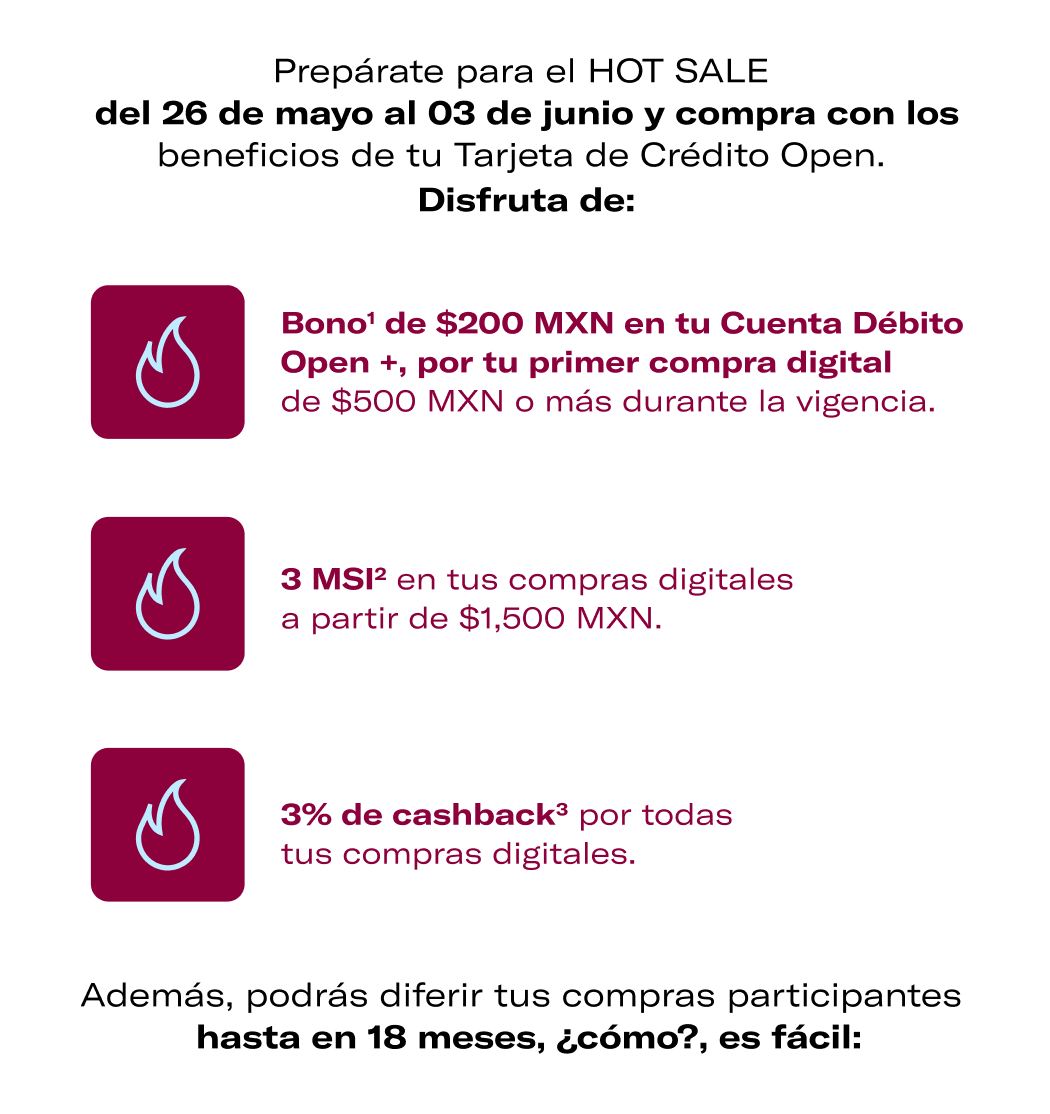
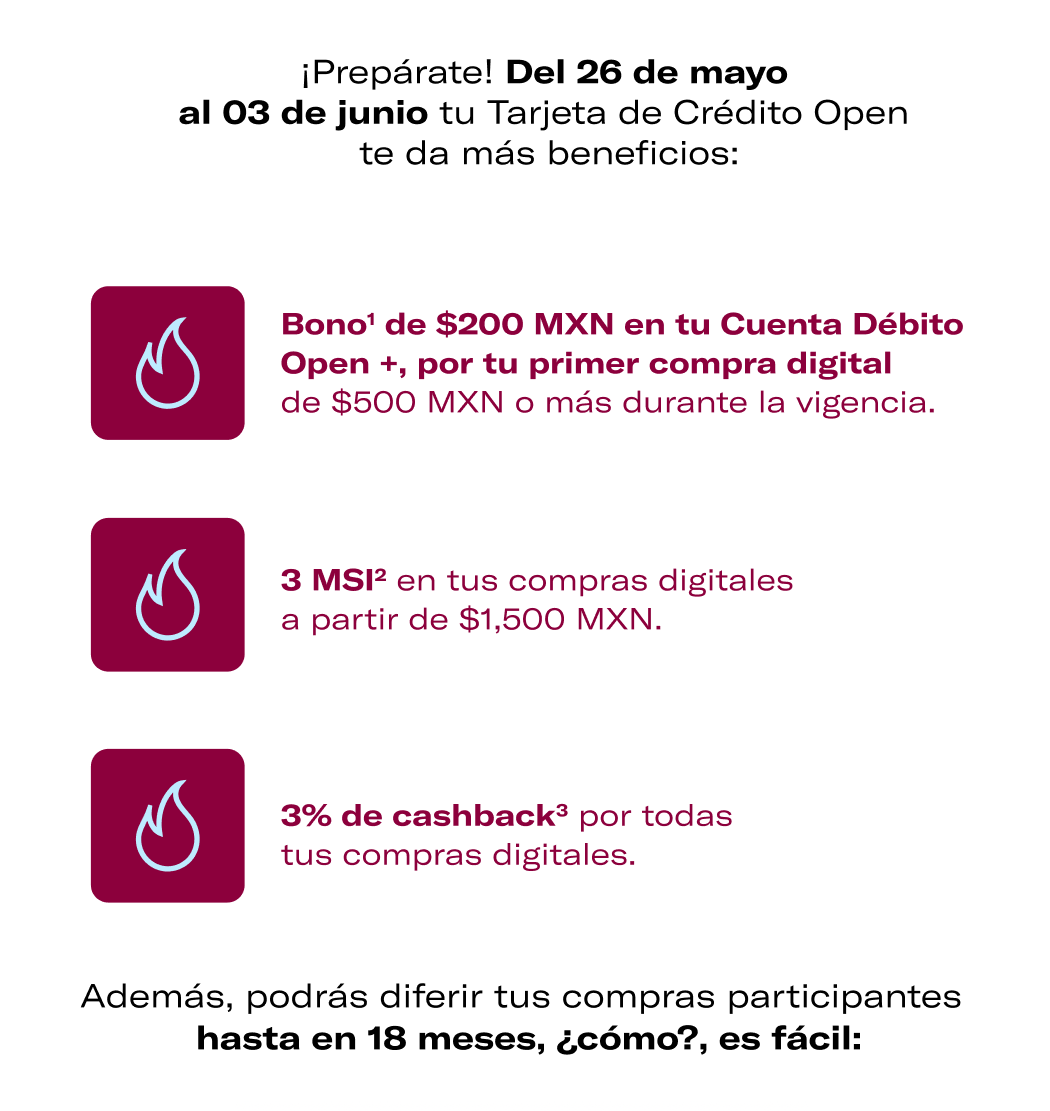
update

diff --git a/2025/05/14-HS5/HS5.html b/2025/05/14-HS5/HS5.html
@@ -470,13 +470,8 @@
         style="background-color: #fff; background-image: linear-gradient(#fff, #fff); -webkit-text-size-adjust:100%;-ms-text-size-adjust:100%;mso-table-lspace:0pt;mso-table-rspace:0pt;mso-default-height:100%;mso-default-width:100%;mso-space-above:no;mso-space-below:no;margin:0;padding:0;width:100%;max-width:600px;border-collapse:collapse !important;border-spacing:0 !important;table-layout:fixed !important;padding:0 !important;margin: 0; padding: 0; max-width: 600px;">
             <tr style="background-color: #fff; background-image: linear-gradient(#fff, #fff); background-image:url('https://openbank-newsletter-q2k5.vercel.app/2025/05/06-Mail-TDC-StandAlone-a-N4/img/bg-white.png'); background-repeat: repeat; margin:0 0 -5px 0;padding:0;border-collapse:collapse !important;border-spacing:0 !important;table-layout:fixed !important;">
                 <td>
-                    <img src="https://openbank-newsletter-q2k5.vercel.app/2025/05/11-HS2/img/HotSaleMailing2_v2_.gif" width="100%" alt="" style="display:block;margin-top:-20px; margin-bottom:0">
+                    <img src="https://openbank-newsletter-q2k5.vercel.app/2025/05/14-HS5/img/HotSaleMailing2_v2_.gif" width="100%" alt="" style="display:block;margin-top:-20px; margin-bottom:0">
                 </td>
-            </tr>
-            <tr style="margin:0;background-color: #fff; background-image: linear-gradient(#fff, #fff); background-image:url('https://openbank-newsletter-q2k5.vercel.app/2025/05/06-Mail-TDC-StandAlone-a-N4/img/bg-white.png'); background-repeat: repeat;">
-              <td>
-                <img src="https://openbank-newsletter-q2k5.vercel.app/2025/05/11-HS2/img/banner.png" width="100%" alt="" style="display:block;margin-top:0; margin-bottom:0">
-              </td>
             </tr>
             <tr style="margin:0;background-color: #fff; background-image: linear-gradient(#fff, #fff); background-image:url('https://openbank-newsletter-q2k5.vercel.app/2025/05/06-Mail-TDC-StandAlone-a-N4/img/bg-white.png'); background-repeat: repeat;">
               <td>
@@ -492,23 +487,23 @@
               </td>
             </tr>
             <tr>
-                <td><a href="#"><img src="https://openbank-newsletter-q2k5.vercel.app/2025/05/11-HS2/img/content_.png" width="100%" alt="" style="display:block;margin:0;"></a></td>
+                <td><a href="#"><img src="https://openbank-newsletter-q2k5.vercel.app/2025/05/14-HS5/img/content_.png" width="100%" alt="" style="display:block;margin:0;"></a></td>
             </tr>
             <tr style="margin:0;background-color: #fff; background-image: linear-gradient(#fff, #fff); background-image:url('https://openbank-newsletter-q2k5.vercel.app/2025/05/06-Mail-TDC-StandAlone-a-N4/img/bg-white.png'); background-repeat: repeat;">
-                <td><a href="#"><img src="https://openbank-newsletter-q2k5.vercel.app/2025/05/11-HS2/img/Diferir_Compras.gif" width="50%" alt="" style="display:block;margin:auto;"></a></td>
+                <td><a href="#"><img src="https://openbank-newsletter-q2k5.vercel.app/2025/05/14-HS5/img/Diferir_Compras.gif" width="50%" alt="" style="display:block;margin:auto;"></a></td>
             </tr>
             <tr>
-                <td><a href="#"><img src="https://openbank-newsletter-q2k5.vercel.app/2025/05/11-HS2/img/boton.png" width="100%" alt="" style="display:block;margin:0;"></a></td>
+                <td><a href="#"><img src="https://openbank-newsletter-q2k5.vercel.app/2025/05/14-HS5/img/boton.png" width="100%" alt="" style="display:block;margin:0;"></a></td>
             </tr>
             <tr>
-                <td><a href="#"><img src="https://openbank-newsletter-q2k5.vercel.app/2025/05/11-HS2/img/ftr.png" width="100%" alt="" style="display:block;"></a></td>
+                <td><a href="#"><img src="https://openbank-newsletter-q2k5.vercel.app/2025/05/14-HS5/img/ftr.png" width="100%" alt="" style="display:block;"></a></td>
             </tr>
         </table>
         <table border="0" cellpadding="0" cellspacing="0" width="100%" class="templateColumnsFooter darkmode" bgcolor="#000000"
         style="-webkit-text-size-adjust:100%;-ms-text-size-adjust:100%;mso-table-lspace:0pt;mso-table-rspace:0pt;mso-default-height:100%;mso-default-width:100%;mso-space-above:no;mso-space-below:no;margin:0;padding:0;width:100%;max-width:600px;border-collapse:collapse !important;border-spacing:0 !important;table-layout:fixed !important;padding:0 !important;table-layout:auto !important;margin: 0; padding: 0; max-width: 600px; background-image: url('https://openbank-newsletter-q2k5.vercel.app/img/rrss/footer-bg.png'); background-image: linear-gradient(#000000, #000000); background-color: #000000; background-repeat: repeat;">
         <tr>
           <td>
-            <img src="https://openbank-newsletter-q2k5.vercel.app/2025/05/11-HS2/img/we_are_open.png" width="100%" alt="" style="display:block;margin-bottom:5px;">
+            <img src="https://openbank-newsletter-q2k5.vercel.app/2025/05/14-HS5/img/we_are_open.png" width="100%" alt="" style="display:block;margin-bottom:5px;">
           </td>
         </tr>
         <tr>
